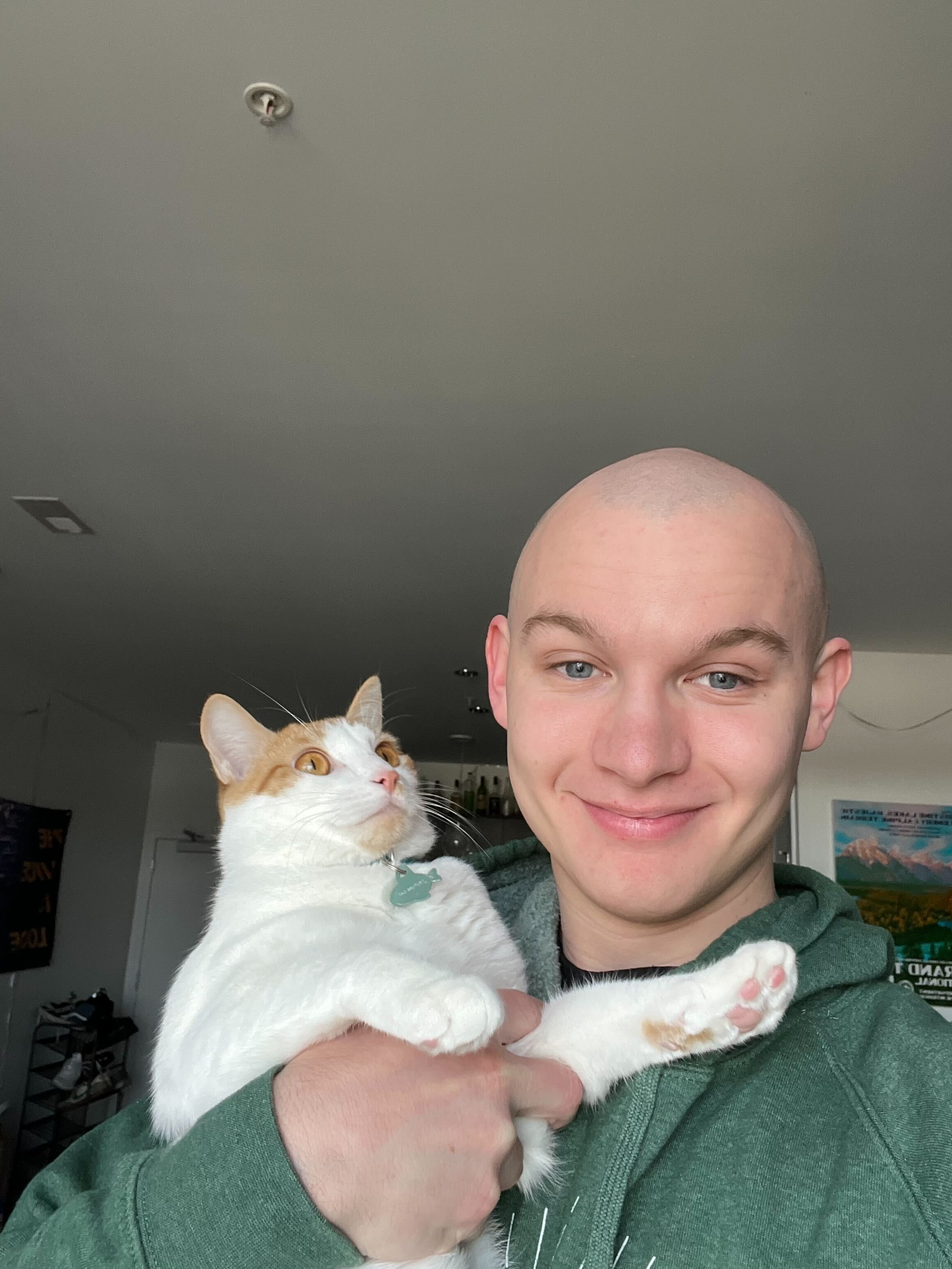
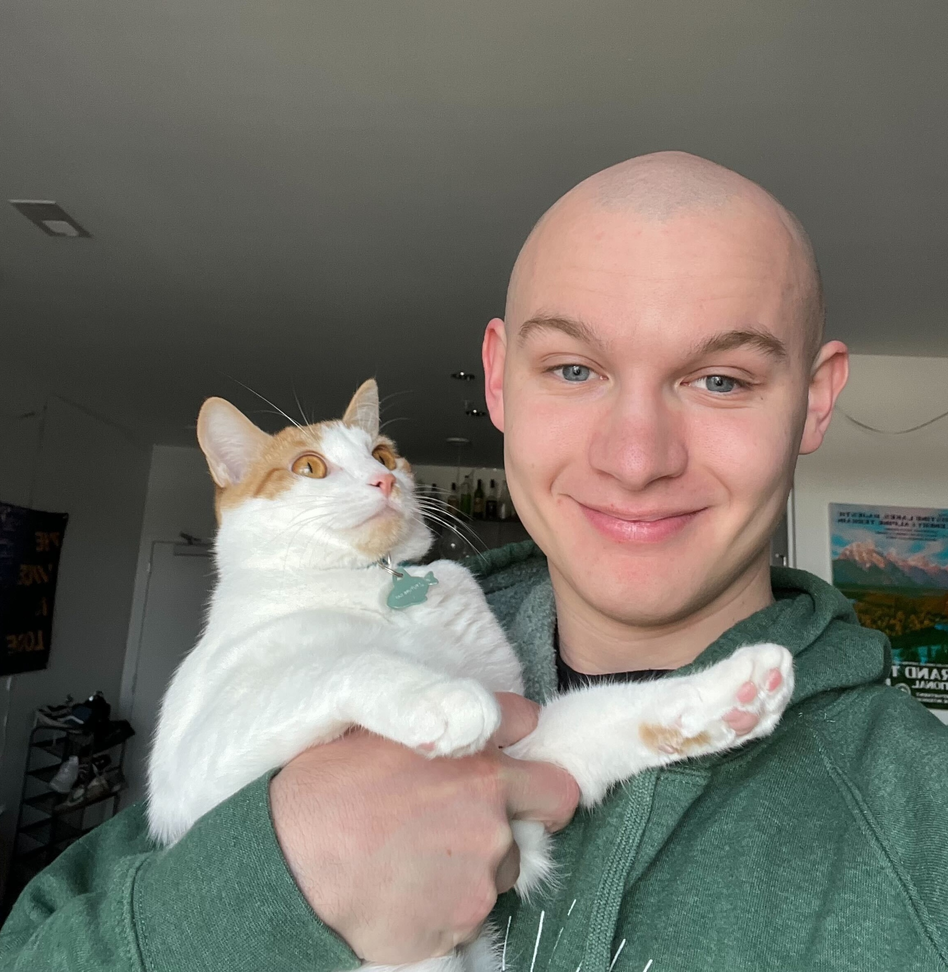
added members
Added Zhouyue to members

diff --git a/.history/people_20250916112601.html b/.history/people_20250916112601.html
@@ -162,7 +162,7 @@
                         USOAR Program </p>
                      </div>
                   </div>
-                  <hr>   
+
                   <div class="row-fluid">
                      <div class="span3">
                         <a href="#" class="thumbnail">
